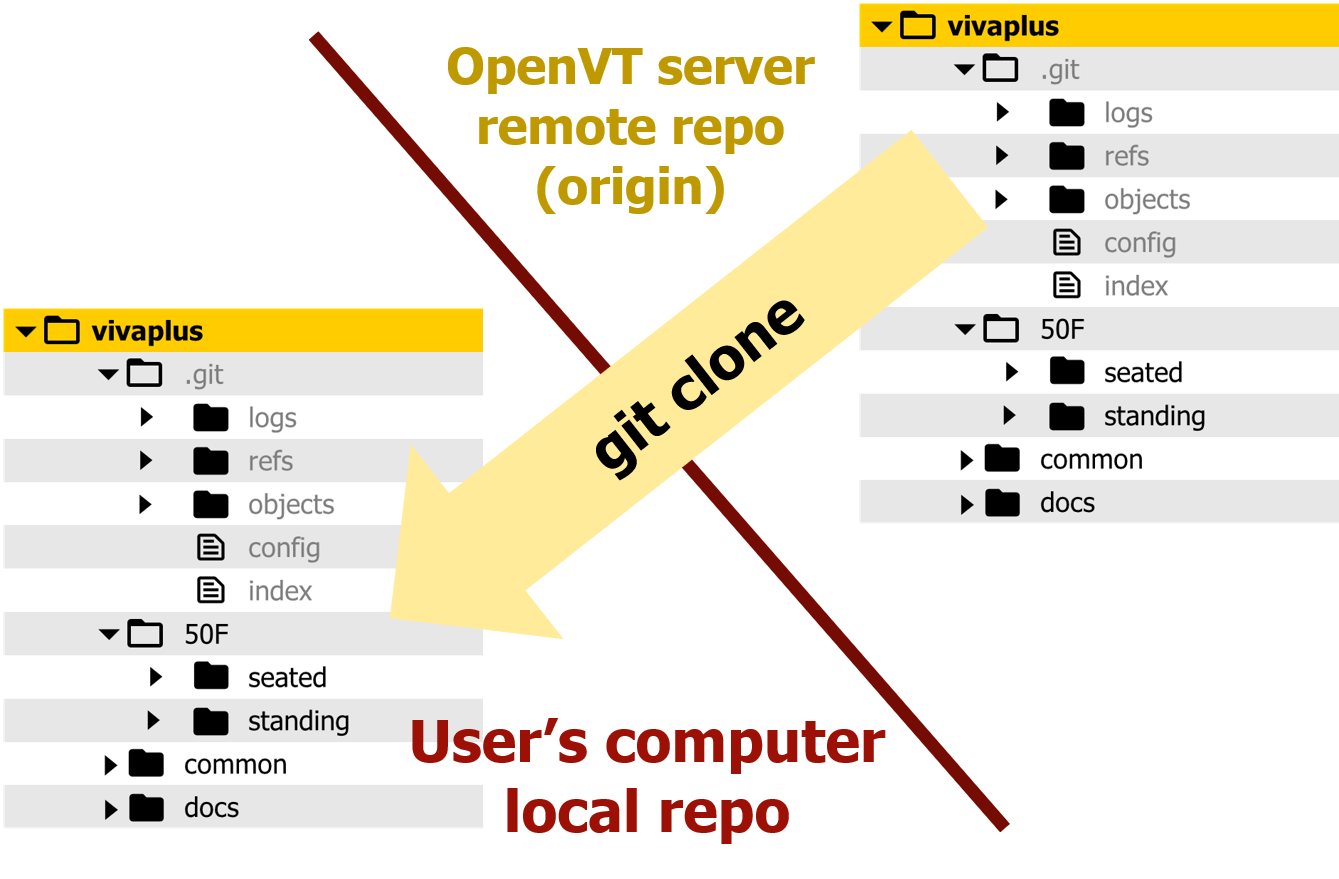
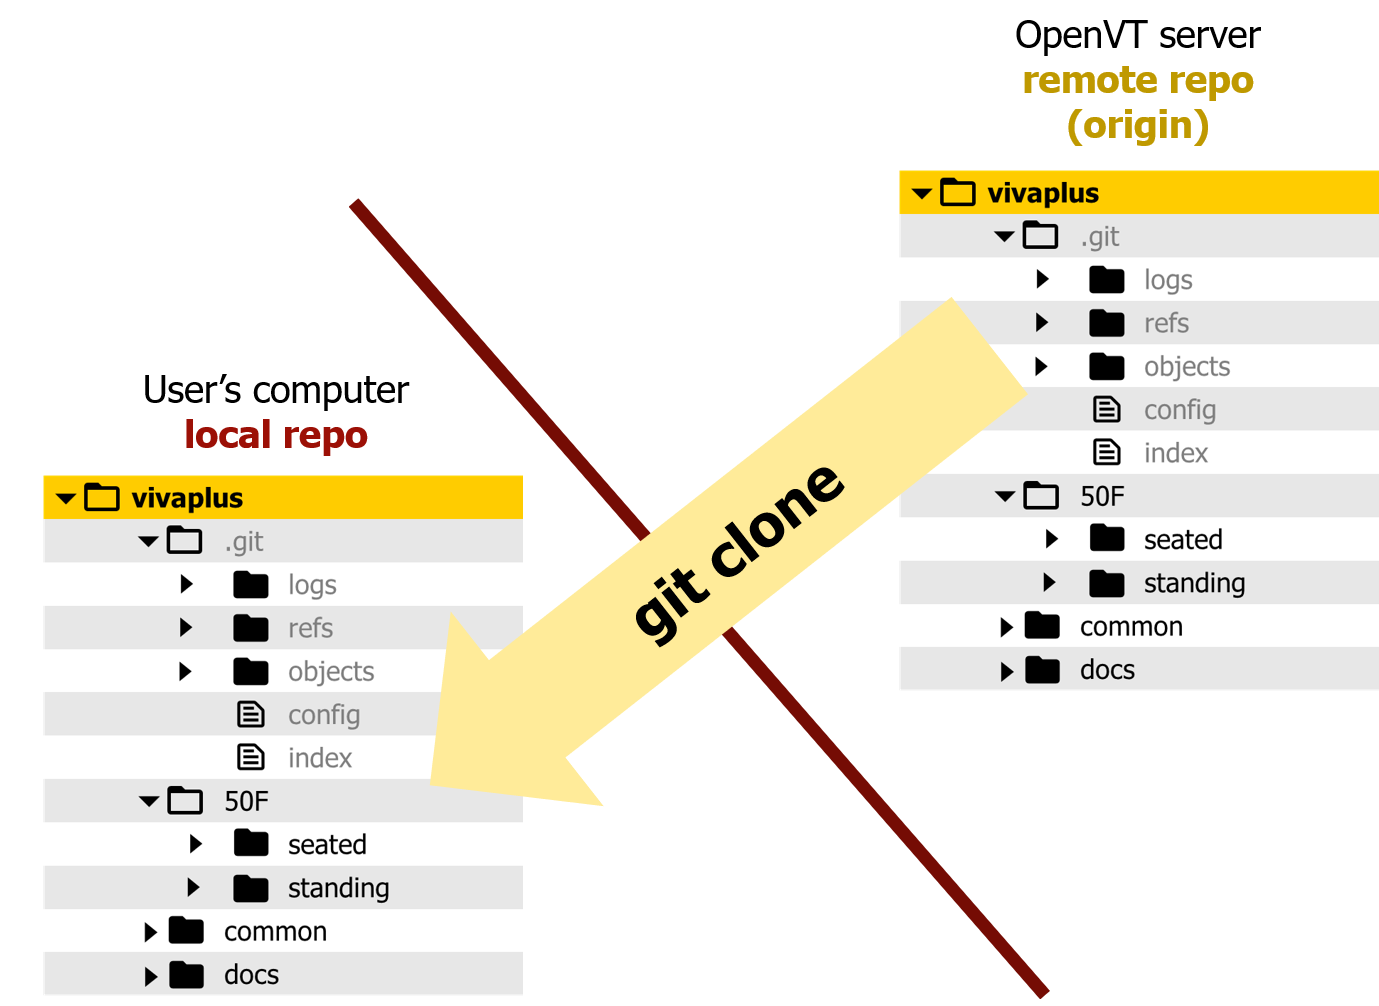
Update git clone and other images

diff --git a/docs/2-2-git-intro.md b/docs/2-2-git-intro.md
@@ -55,8 +55,7 @@ Version control systems were orginally used for software development, but we can
 
 And now Human Body Finite Element Models!
 
-[![PhD Comics](/img/phd-comic-VC.gif#center)](http://phdcomics.com/comics/archive.php?comicid=1531)
-
+![PhD Comics](img/phd-comic-VC.gif#center)]{: style="width:350px"}
 ## **Why git?** 
 
 - Most popular and widely used version control system
@@ -76,7 +75,7 @@ _(This list is an abridged version from CodeRefinery course 'Introduction to Git
 - `.git` contains the whole repository/database (versions, history, ...)
 - You can interact with Git through mulitple interfaces: **command line, graphical user interface, web interface.**
 
-![repo](/img/repo_vivaplus.png#center){: style="width:350px"}
+![repo](img/repo_vivaplus.png#center){: style="width:350px"}
 
 Every time a change in the folder is committed(saved), a new **Commit** is created: _Commit 1, Commit 2, Commit 3, ..._
 
@@ -84,11 +83,11 @@ Every time a change in the folder is committed(saved), a new **Commit** is creat
 
 - Every commit is a full **snapshot** of the whole folder
 
-![snapshots](/img/snapshots.png)
+![snapshots](img/snapshots.png)
 
 Each commit is connected to its parent: points to its parent as shown below (the files in the snapshots are not shown)
 
-![commit-parent](/img/commit-parent.png)
+![commit-parent](img/commit-parent.png)
 
 Commit structure
 
@@ -154,5 +153,6 @@ Some sections on this page are based on following courses:
 - Coderefinery [Introduction to Git](https://coderefinery.github.io/git-intro/)
 
 Figures:
+- PhD Comic, Jorge Cham, 2012, http://phdcomics.com/comics/archive.php?comicid=1531
 
 - Centralized and Distributed Version Control : [Pro Git, 2ed(2014)](https://git-scm.com/book/en/v2)

diff --git a/docs/2-1-git-overview.md b/docs/2-1-git-overview.md
@@ -1,4 +1,4 @@
-# Overview of Git Workshop Lessons
+# **Overview of Git Workshop**
 
 This section of the workshop introduces you to Git. The VIVA+ human body models are developed and maintained on a Git repository. The VIVA+ Git repository is hosted on the OpenVT Gitlab platform. 
 
@@ -6,7 +6,7 @@ So what is Git? Git is an automated **version control** system. "Version control
 
 The objective of this section is to introduce a new user to the concepts of Git version control and to introduce them to the VIVA+ models development workflow.
 
-!!! summary "In this section, you will learn" 
+!!! summary "In this workshop, you will learn" 
     - to **clone the VIVA+ git repository** from OpenVT
     - the **workflow to version control** VIVA+ files
     - to **get updates** from the VIVA+ repo

diff --git a/docs/2-3-git-basic-workflow.md b/docs/2-3-git-basic-workflow.md
@@ -23,7 +23,7 @@ git checkout master
 From the illustration above, note:
 
 - how commits are made as updates are made to a repo
-- how a branch was created to work in parallel and merge the updates into the ``master`` branch. 
+- how a branch is created to work in parallel and merge the updates into the ``master`` branch. 
 - the `HEAD` moved as you switched between the branches. `HEAD` indicates the branch where the next commit will be written on. (Think of it like the _'recording head'_ that writes on a gramophone record or CD/DVD)
 
 <!---
